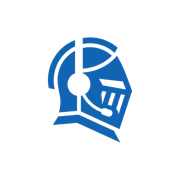
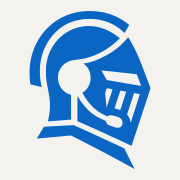
New 08-28 helmet mark across site assets; Realtime Advisor tagline; Field Notes page + homepage section
- assets: icon, favicon, apple-touch-icon rendered from the traced 2026-08-28
  mark; og image is the current lockup (REALTIME ADVISOR) on paper, 1200x630
- header subtitle: AI-Powered Recruiting -> Realtime Advisor
- notes.html: five founder notes from the 2026-09-11 demo session
  (paladin-business blog/2026-09-11-demo-session.md), text only
- index.html: Notes nav link, #notes teaser section (3 cards), footer link

Claude-Session: https://claude.ai/code/session_01XRC2grJkCS9izs5idfX1XY

Changed region(s): [[0.1389, 0.0556, 0.8611, 0.9444]]

diff --git a/notes.html b/notes.html
@@ -1,0 +1,131 @@
+<!DOCTYPE html>
+<html lang="en">
+<head>
+    <meta charset="UTF-8">
+    <meta name="viewport" content="width=device-width, initial-scale=1.0">
+    <meta name="description" content="Field notes from building Paladin Recruiter, the realtime advisor for recruiting calls: what we're learning by running real calls through it.">
+    <meta name="author" content="Ashford & Briggs">
+    <title>Field Notes | Paladin Recruiter</title>
+
+    <link rel="canonical" href="https://paladinrecruiter.com/notes">
+    <meta property="og:type" content="website">
+    <meta property="og:url" content="https://paladinrecruiter.com/notes">
+    <meta property="og:title" content="Field Notes | Paladin Recruiter">
+    <meta property="og:description" content="Short notes from building Paladin and running real recruiting calls through it.">
+    <meta property="og:image" content="https://paladinrecruiter.com/assets/paladin-logo-horizontal.png">
+
+    <link rel="icon" type="image/png" href="assets/favicon.png">
+    <link rel="apple-touch-icon" href="assets/apple-touch-icon.png">
+
+    <link rel="preconnect" href="https://fonts.googleapis.com">
+    <link rel="preconnect" href="https://fonts.gstatic.com" crossorigin>
+    <link href="https://fonts.googleapis.com/css2?family=Outfit:wght@300;400;500;600;700;800&family=IBM+Plex+Mono:wght@400;500;600&display=swap" rel="stylesheet">
+
+    <link rel="stylesheet" href="styles.css">
+</head>
+<body>
+    <!-- Header -->
+    <header class="site-header">
+        <nav class="container nav-container">
+            <a href="/" class="logo">
+                <img src="assets/paladin-icon.png" alt="Paladin helmet mark" class="logo-mark">
+                <span class="logo-text">
+                    <span class="logo-name">Paladin</span>
+                    <span class="logo-subtitle">Realtime Advisor</span>
+                </span>
+            </a>
+            <ul class="nav-menu" id="navMenu">
+                <li><a href="/#features">Features</a></li>
+                <li><a href="/#process">How It Works</a></li>
+                <li><a href="notes.html">Notes</a></li>
+                <li><a href="/#about">About</a></li>
+                <li><a href="/#contact" class="btn-primary">Request a Demo</a></li>
+            </ul>
+            <button class="mobile-menu-toggle" id="mobileMenuToggle" aria-label="Toggle navigation menu">
+                <span></span>
+                <span></span>
+                <span></span>
+            </button>
+        </nav>
+    </header>
+
+    <main class="notes-page">
+        <div class="container">
+            <header class="section-header">
+                <p class="exhibit-label">FIELD NOTES — FROM THE FOUNDER</p>
+                <h1>What we're learning by using it.</h1>
+                <p>Short notes from building Paladin and running real calls through it. Written by John Evans, CEO of Ashford &amp; Briggs. Only what is live gets described here.</p>
+            </header>
+
+            <div class="note-list">
+                <article class="note-entry" id="wrapper-problem">
+                    <p class="note-date">2026-09-11</p>
+                    <h2>The wrapper problem</h2>
+                    <p>A year ago most AI startups were a wrapper around ChatGPT.</p>
+                    <p>This year they're a wrapper around Claude Code or Codex. Same idea, one level up. Raw model to agent harness.</p>
+                    <p>That's fine. Some of those will be great businesses. But it's not what we're doing.</p>
+                    <p>Paladin's core tech is the phone line. The call comes in, the audio streams through us, the recruiter gets guidance while the candidate is still talking. You can't wrap that around an agent harness. You have to build the telecom stack, and then you have to make it fast enough to matter on a live call.</p>
+                    <p>Somebody told me this week that every hard problem you get through makes the moat a little wider. I think that's right. The phone is the hard problem. It's also the whole product.</p>
+                    <p class="note-byline">John Evans, CEO, Ashford &amp; Briggs</p>
+                </article>
+
+                <article class="note-entry" id="junior-to-senior">
+                    <p class="note-date">2026-09-11</p>
+                    <h2>Junior to senior in weeks</h2>
+                    <p>Four senior recruiters have seen Paladin so far. One of them ran a national staffing firm.</p>
+                    <p>His read, roughly: you could take someone fresh out of school, hand them this, and have them running calls like a senior recruiter in a couple of weeks. And your senior people double their output.</p>
+                    <p>I've been careful not to put numbers on this that we haven't earned yet. But that second part is the one that gets the owners leaning in. Not replacing recruiters. Making the ones you have twice as useful.</p>
+                    <p>Here's what the recruiter actually sees during a call. The candidate's file is digested before the phone rings. The questions are ready. The follow-ups come in while the answer is still landing.</p>
+                    <p class="note-byline">John Evans, CEO, Ashford &amp; Briggs</p>
+                </article>
+
+                <article class="note-entry" id="real-interview">
+                    <p class="note-date">2026-09-11</p>
+                    <h2>I used it on a real interview today</h2>
+                    <p>Ran an actual hiring conversation through Paladin this afternoon. Not a demo script, a role we're filling.</p>
+                    <p>Before the call it wrote the job description and the question set from the candidate's profile. During the call it fed me follow-ups, some I wouldn't have thought to ask. After the call I had a summary, a fit score, and a list of next steps before I'd finished my coffee.</p>
+                    <p>It also surfaced three UI bugs, which is what happens when you use your own product for something that matters. Those are on the board for tomorrow.</p>
+                    <p>The candidate's reaction was the interesting part. They spent the second half of the call asking about the product instead of answering questions about themselves.</p>
+                    <p class="note-byline">John Evans, CEO, Ashford &amp; Briggs</p>
+                </article>
+
+                <article class="note-entry" id="real-time">
+                    <p class="note-date">2026-09-11</p>
+                    <h2>What "real time" actually means on a phone call</h2>
+                    <p>Everyone says real time. Here's ours, specifically.</p>
+                    <p>Worst case, 15 seconds from the candidate saying something to the recruiter seeing a prompt about it. Usually a lot less. That's the budget we design against, because a phone conversation moves on. A suggestion that shows up after the topic has changed isn't help, it's noise.</p>
+                    <p>So the work isn't the model. The model is fine. The work is transcription that keeps up, context that's already loaded before the call starts, and a pipeline short enough that the advice lands while the question is still open.</p>
+                    <p>The candidate's file gets digested before the phone rings. That's how you buy back the seconds.</p>
+                    <p class="note-byline">John Evans, CEO, Ashford &amp; Briggs</p>
+                </article>
+
+                <article class="note-entry" id="bias-question">
+                    <p class="note-date">2026-09-11</p>
+                    <h2>The bias question</h2>
+                    <p>Something came up today that I want to think out loud about.</p>
+                    <p>If the recruiter is getting guidance from a system that read the candidate's file, how much of that file does the recruiter actually need to see?</p>
+                    <p>We could go pretty far. Hide the name. Hide the city. Hide the school. Score the answers on the phone, not the resume. How far you go would be up to the firm and what they've promised their clients.</p>
+                    <p>We haven't built that yet. But the phone-first design makes it possible in a way a resume-first tool never could, and I think it's worth writing up properly.</p>
+                    <p>If you run a staffing firm and you've been asked about bias in your process, I'd like to hear what your clients are actually asking for. <a href="mailto:jevans@ashfordbriggs.com">jevans@ashfordbriggs.com</a></p>
+                    <p class="note-byline">John Evans, CEO, Ashford &amp; Briggs</p>
+                </article>
+            </div>
+        </div>
+    </main>
+
+    <!-- Footer -->
+    <footer class="site-footer">
+        <div class="container">
+            <div class="footer-bottom">
+                <p>&copy; 2026 Paladin | An Ashford &amp; Briggs Product. All rights reserved.</p>
+                <div class="footer-legal">
+                    <a href="/">Home</a>
+                    <a href="https://www.ashfordbriggs.com/privacy.html">Privacy Policy</a>
+                </div>
+            </div>
+        </div>
+    </footer>
+
+    <script src="script.js"></script>
+</body>
+</html>

diff --git a/index.html b/index.html
@@ -33,13 +33,14 @@
                 <img src="assets/paladin-icon.png" alt="Paladin helmet mark" class="logo-mark">
                 <span class="logo-text">
                     <span class="logo-name">Paladin</span>
-                    <span class="logo-subtitle">AI-Powered Recruiting</span>
+                    <span class="logo-subtitle">Realtime Advisor</span>
                 </span>
             </a>
             <ul class="nav-menu" id="navMenu">
                 <li><a href="#features">Features</a></li>
                 <li><a href="#process">How It Works</a></li>
                 <li><a href="#production">It's Running</a></li>
+                <li><a href="#notes">Notes</a></li>
                 <li><a href="#about">About</a></li>
                 <li><a href="#contact" class="btn-primary">Request a Demo</a></li>
             </ul>
@@ -216,6 +217,39 @@
         </div>
     </section>
 
+    <!-- Field notes -->
+    <section id="notes" class="notes">
+        <div class="container">
+            <header class="section-header">
+                <p class="exhibit-label">FIELD NOTES — FROM THE FOUNDER</p>
+                <h2>What we're learning by using it.</h2>
+                <p>Short notes from building Paladin and running real calls through it. No screenshots of things we haven't built.</p>
+            </header>
+
+            <div class="note-cards">
+                <article class="note-card">
+                    <p class="note-date">2026-09-11</p>
+                    <h3><a href="notes.html#wrapper-problem">The wrapper problem</a></h3>
+                    <p>Most AI startups are a wrapper around a model, or now an agent harness. Paladin's core tech is the phone line. You can't wrap that.</p>
+                    <a class="note-more" href="notes.html#wrapper-problem">Read the note →</a>
+                </article>
+                <article class="note-card">
+                    <p class="note-date">2026-09-11</p>
+                    <h3><a href="notes.html#junior-to-senior">Junior to senior in weeks</a></h3>
+                    <p>Four senior recruiters have seen it. The read from one who ran a national firm: a new recruiter runs calls like a senior one within weeks, and your seniors double their output.</p>
+                    <a class="note-more" href="notes.html#junior-to-senior">Read the note →</a>
+                </article>
+                <article class="note-card">
+                    <p class="note-date">2026-09-11</p>
+                    <h3><a href="notes.html#real-time">What "real time" actually means on a phone call</a></h3>
+                    <p>Worst case, 15 seconds from the candidate saying something to the recruiter seeing a prompt about it. Usually much less. That's the budget we design against.</p>
+                    <a class="note-more" href="notes.html#real-time">Read the note →</a>
+                </article>
+            </div>
+            <p class="notes-all"><a href="notes.html" class="btn-secondary">All notes</a></p>
+        </div>
+    </section>
+
     <!-- About -->
     <section id="about" class="about">
         <div class="container">
@@ -338,6 +372,7 @@
                     <ul>
                         <li><a href="#features">Features</a></li>
                         <li><a href="#process">How It Works</a></li>
+                        <li><a href="notes.html">Field Notes</a></li>
                         <li><a href="#contact">Request a Demo</a></li>
                     </ul>
                 </div>

diff --git a/styles.css b/styles.css
@@ -584,6 +584,61 @@ a:hover { opacity: 0.85; }
 .footer-legal a:first-child { margin-left: 0; }
 .footer-legal a:hover { color: var(--blue); }
 
+
+/* ---------- field notes ---------- */
+
+.notes { padding: 5.5rem 0; background: var(--paper); border-top: 1px solid var(--paper-line); }
+
+.note-cards {
+    display: grid;
+    grid-template-columns: repeat(3, 1fr);
+    gap: 1.5rem;
+    margin-bottom: 2.4rem;
+}
+.note-card {
+    background: var(--paper-card);
+    border: 1px solid var(--paper-line);
+    border-top: 3px solid var(--blue-deep);
+    border-radius: 8px;
+    padding: 1.7rem 1.6rem 1.5rem;
+    box-shadow: var(--shadow-md);
+    display: flex;
+    flex-direction: column;
+}
+.note-date {
+    font-family: var(--font-mono);
+    font-size: 0.66rem;
+    letter-spacing: 0.14em;
+    color: var(--paper-dim);
+    margin-bottom: 0.7rem;
+}
+.note-card h3 { font-size: 1.2rem; margin-bottom: 0.6rem; }
+.note-card h3 a { color: var(--paper-ink); }
+.note-card p:not(.note-date) { color: var(--paper-dim); font-size: 0.97rem; margin-bottom: 1rem; }
+.note-more { margin-top: auto; font-weight: 600; font-size: 0.95rem; }
+.notes-all { text-align: center; margin: 0; }
+.notes .btn-secondary { border-color: var(--blue-deep); color: var(--blue-deep) !important; }
+.notes .btn-secondary:hover { background: rgba(10, 102, 194, 0.06); }
+
+/* notes page */
+.notes-page { padding: 3.5rem 0 5rem; background: var(--paper); }
+.notes-page .section-header { margin-bottom: 2.5rem; }
+.note-list { max-width: 720px; margin: 0 auto; }
+.note-entry {
+    background: var(--paper-card);
+    border: 1px solid var(--paper-line);
+    border-radius: 10px;
+    padding: 2.2rem 2.2rem 1.8rem;
+    margin-bottom: 1.6rem;
+    box-shadow: var(--shadow-sm);
+    scroll-margin-top: 90px;
+}
+.note-entry h2 { font-size: 1.6rem; margin-bottom: 1.1rem; }
+.note-entry p { color: var(--paper-ink); font-size: 1.05rem; }
+.note-entry p:last-child { margin-bottom: 0; }
+.note-entry .note-date { margin-bottom: 0.5rem; }
+.note-byline { font-size: 0.9rem; color: var(--paper-dim); margin: 1.4rem 0 0; padding-top: 1rem; border-top: 1px solid var(--paper-line); }
+
 /* ---------- responsive ---------- */
 
 @media (max-width: 980px) {
@@ -595,6 +650,7 @@ a:hover { opacity: 0.85; }
     .transcript-panel { transform: none; max-width: 560px; }
 
     .stat-cards { grid-template-columns: 1fr; }
+    .note-cards { grid-template-columns: 1fr; }
     .features-grid { grid-template-columns: 1fr 1fr; }
     .process-steps { grid-template-columns: 1fr 1fr; }
     .about-content { grid-template-columns: 1fr; }
@@ -626,6 +682,7 @@ a:hover { opacity: 0.85; }
     .features-grid { grid-template-columns: 1fr; }
     .process-steps { grid-template-columns: 1fr; }
     .form-row { grid-template-columns: 1fr; }
+    .note-entry { padding: 1.6rem 1.3rem 1.4rem; }
     .footer-content { grid-template-columns: 1fr; }
     .logo-subtitle { display: none; }
 }
